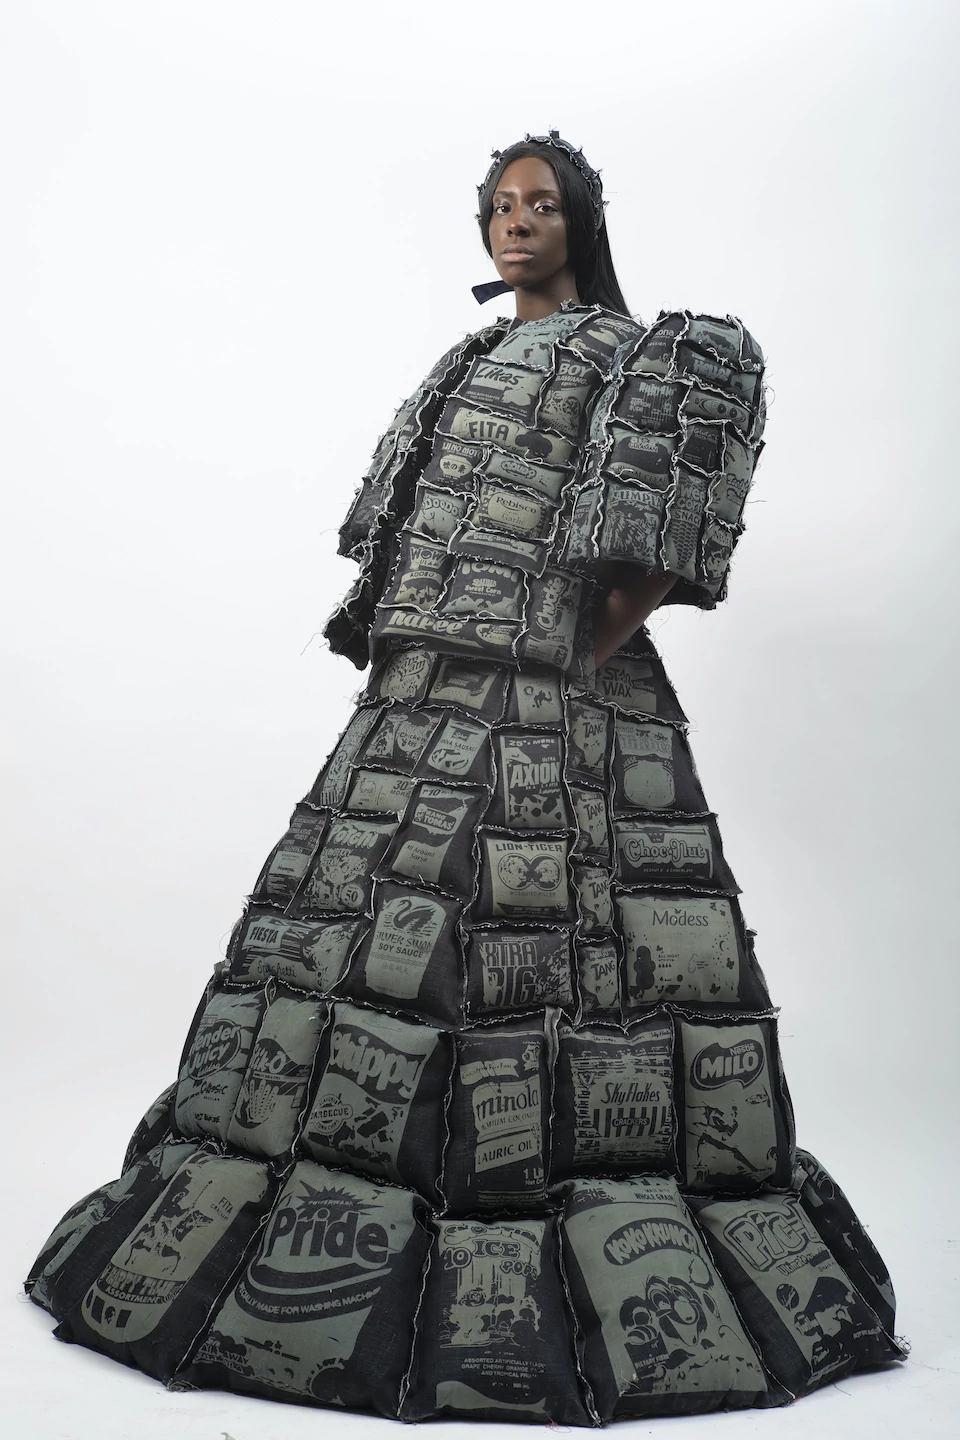
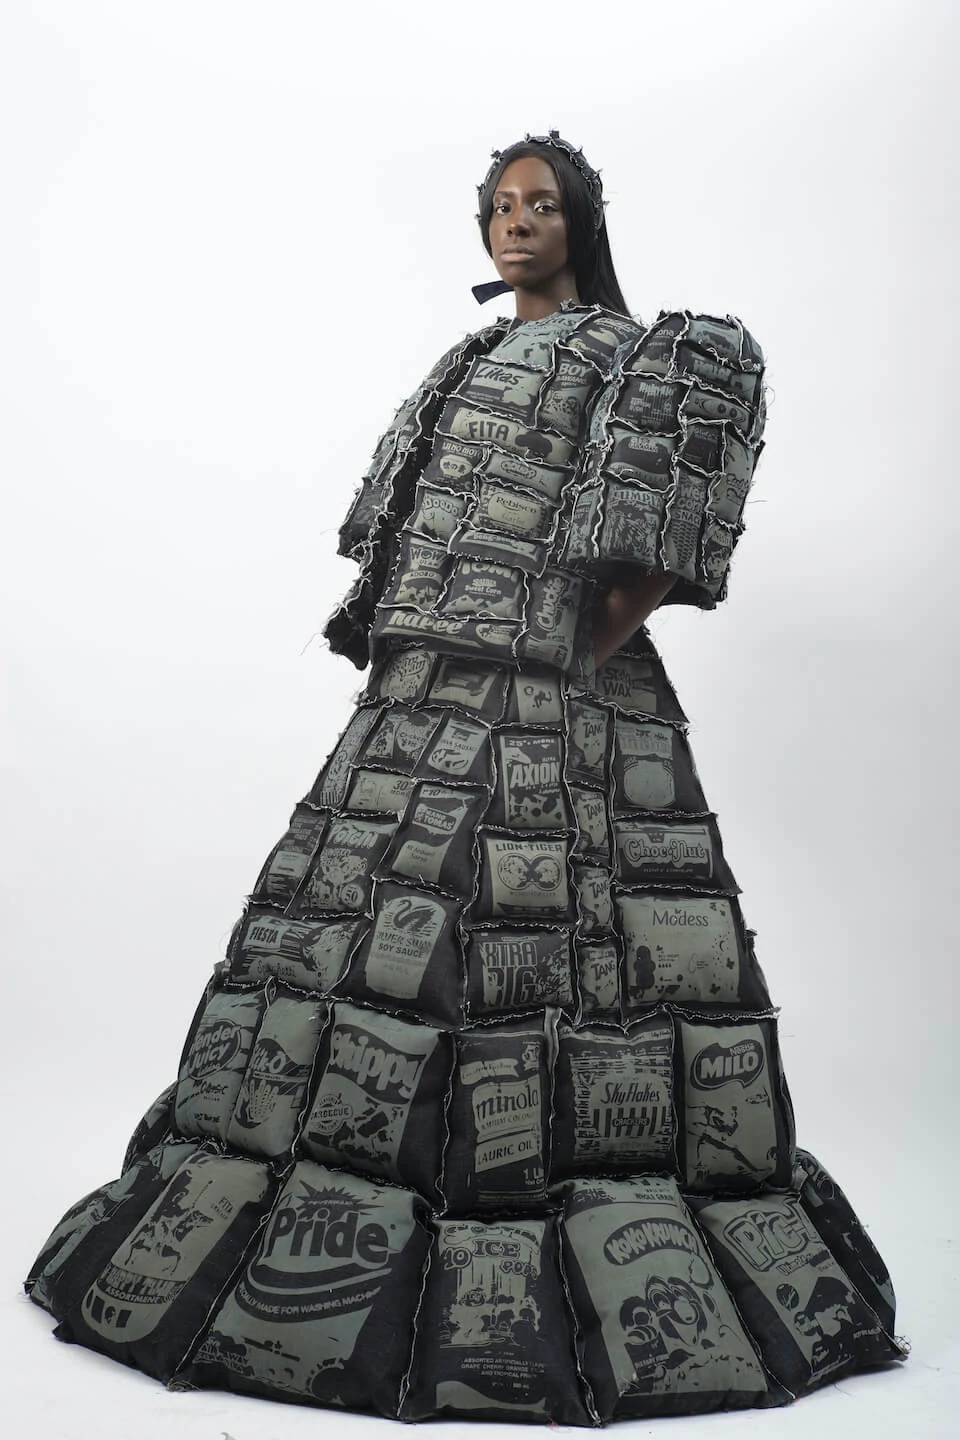
Optimize juanaPartOne images

Changed region(s): [[0.4375, 0.25, 0.4688, 0.2812]]

diff --git a/src/pages/juanaPartOne.js b/src/pages/juanaPartOne.js
@@ -19,7 +19,7 @@ const JuanaPartOnePage = props => {
             type="image/webp"
           />
           <img
-            src={`../../images/collections/juanaPartOne/Juana1.png`}
+            src={`../../images/collections/juanaPartOne/Juana1.jpg`}
             alt="Juana part one 1"
             className="one-js abs"
           />
@@ -30,7 +30,7 @@ const JuanaPartOnePage = props => {
             type="image/webp"
           />
           <img
-            src={`../../images/collections/juanaPartOne/Juana2.png`}
+            src={`../../images/collections/juanaPartOne/Juana2.jpg`}
             alt="Juana part one 2"
             className="two-js abs"
           />
@@ -41,7 +41,7 @@ const JuanaPartOnePage = props => {
             type="image/webp"
           />
           <img
-            src={`../../images/collections/juanaPartOne/Juana3.png`}
+            src={`../../images/collections/juanaPartOne/Juana3.jpg`}
             alt="Juana part one 3"
             className="three-js abs"
           />
@@ -52,7 +52,7 @@ const JuanaPartOnePage = props => {
             type="image/webp"
           />
           <img
-            src={`../../images/collections/juanaPartOne/Juana4.png`}
+            src={`../../images/collections/juanaPartOne/Juana4.jpg`}
             alt="Juana part one 4"
             className="four-js abs"
           />
@@ -63,7 +63,7 @@ const JuanaPartOnePage = props => {
             type="image/webp"
           />
           <img
-            src={`../../images/collections/juanaPartOne/Juana5.png`}
+            src={`../../images/collections/juanaPartOne/Juana5.jpg`}
             alt="Juana part one 5"
             className="five-js abs"
           />
@@ -74,7 +74,7 @@ const JuanaPartOnePage = props => {
             type="image/webp"
           />
           <img
-            src={`../../images/collections/juanaPartOne/Juana6.png`}
+            src={`../../images/collections/juanaPartOne/Juana6.jpg`}
             alt="Juana part one 6"
             className="six-js abs"
           />
@@ -85,7 +85,7 @@ const JuanaPartOnePage = props => {
             type="image/webp"
           />
           <img
-            src={`../../images/collections/juanaPartOne/Juana7.png`}
+            src={`../../images/collections/juanaPartOne/Juana7.jpg`}
             alt="Juana part one 7"
             className="seven-js abs"
           />
@@ -96,7 +96,7 @@ const JuanaPartOnePage = props => {
             type="image/webp"
           />
           <img
-            src={`../../images/collections/juanaPartOne/Juana8.png`}
+            src={`../../images/collections/juanaPartOne/Juana8.jpg`}
             alt="Juana part one 8"
             className="eight-js abs"
           />
@@ -107,7 +107,7 @@ const JuanaPartOnePage = props => {
             type="image/webp"
           />
           <img
-            src={`../../images/collections/juanaPartOne/Juana9.png`}
+            src={`../../images/collections/juanaPartOne/Juana9.jpg`}
             alt="Juana part one 9"
             className="nine-js abs"
           />
@@ -118,7 +118,7 @@ const JuanaPartOnePage = props => {
             type="image/webp"
           />
           <img
-            src={`../../images/collections/juanaPartOne/Juana10.png`}
+            src={`../../images/collections/juanaPartOne/Juana10.jpg`}
             alt="Juana part one 10"
             className="ten-js abs"
           />
@@ -129,7 +129,7 @@ const JuanaPartOnePage = props => {
             type="image/webp"
           />
           <img
-            src={`../../images/collections/juanaPartOne/Juana11.png`}
+            src={`../../images/collections/juanaPartOne/Juana11.jpg`}
             alt="Juana part one 11"
             className="eleven-js abs"
           />
@@ -140,7 +140,7 @@ const JuanaPartOnePage = props => {
             type="image/webp"
           />
           <img
-            src={`../../images/collections/juanaPartOne/Juana12.png`}
+            src={`../../images/collections/juanaPartOne/Juana12.jpg`}
             alt="Juana part one 12"
             className="twelve-js abs"
           />
@@ -151,7 +151,7 @@ const JuanaPartOnePage = props => {
             type="image/webp"
           />
           <img
-            src={`../../images/collections/juanaPartOne/Juana13.png`}
+            src={`../../images/collections/juanaPartOne/Juana13.jpg`}
             alt="Juana part one 13"
             className="thirteen-js abs"
           />
@@ -162,7 +162,7 @@ const JuanaPartOnePage = props => {
             type="image/webp"
           />
           <img
-            src={`../../images/collections/juanaPartOne/Juana14.png`}
+            src={`../../images/collections/juanaPartOne/Juana14.jpg`}
             alt="Juana part one 14"
             className="fourteen-js abs"
           />
@@ -173,7 +173,7 @@ const JuanaPartOnePage = props => {
             type="image/webp"
           />
           <img
-            src={`../../images/collections/juanaPartOne/Juana15.png`}
+            src={`../../images/collections/juanaPartOne/Juana15.jpg`}
             alt="Juana part one 15"
             className="fifteen-js abs"
           />
